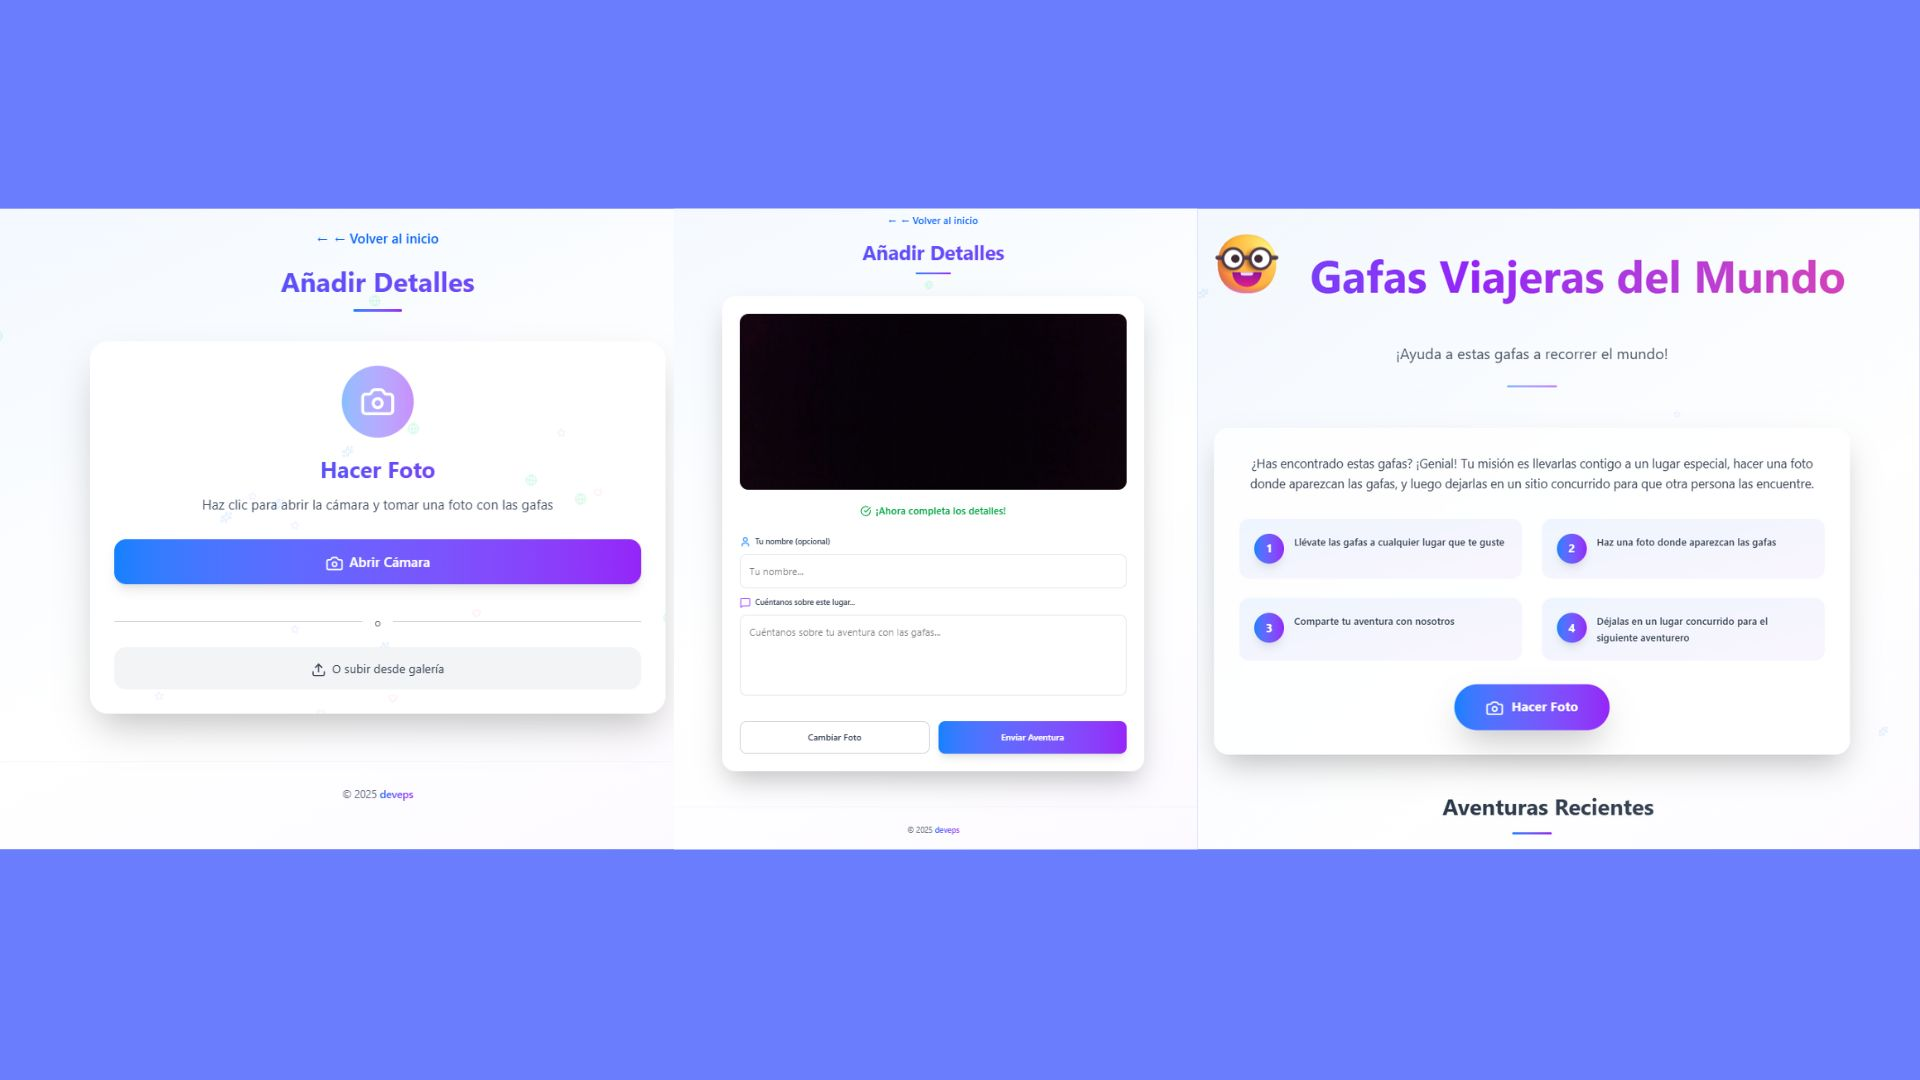
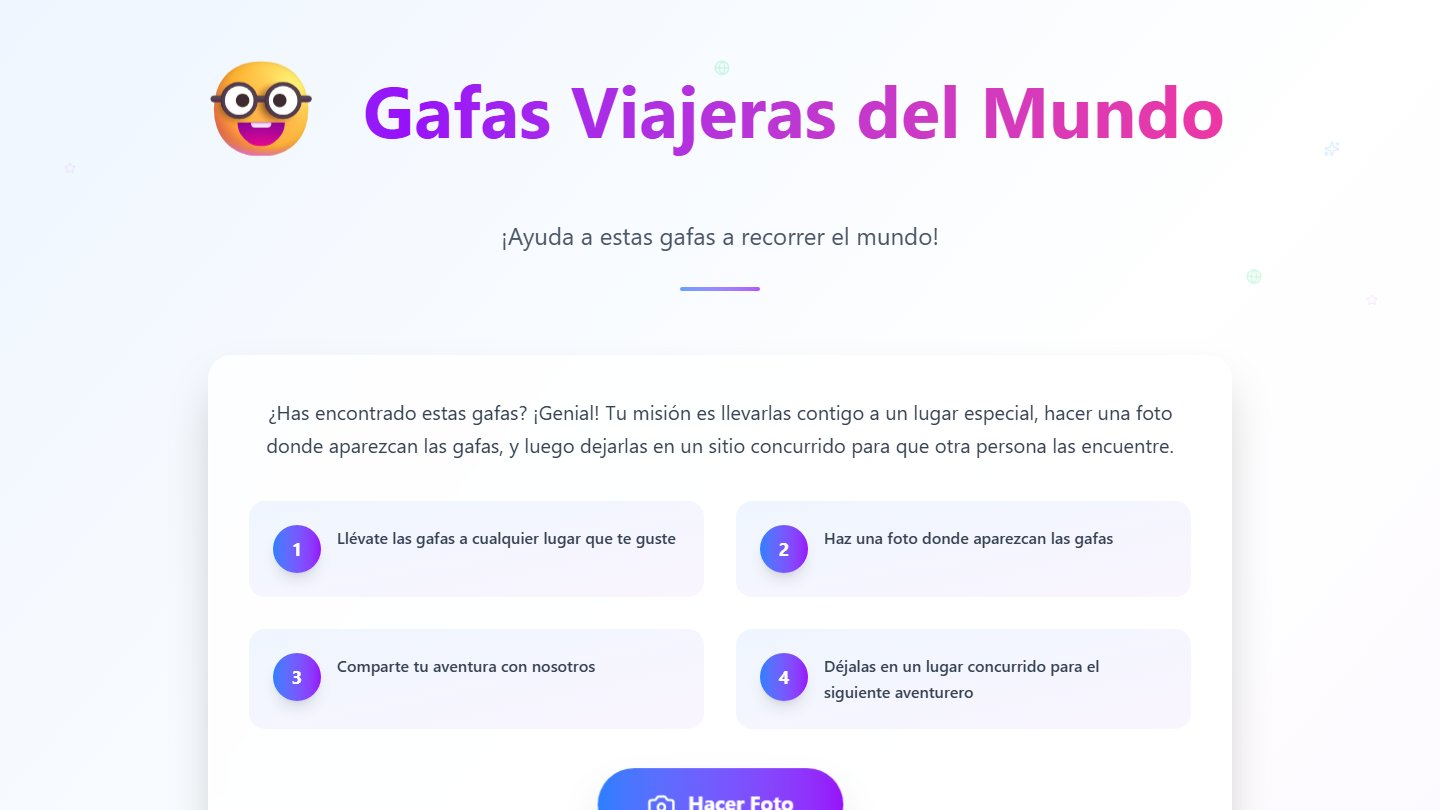
Actualizar las capturas del portfolio
Capturas nuevas de las 8 demos (1440x810, JPG): pasan de 3,0 MB a 608 KB.

diff --git a/data.tsx b/data.tsx
@@ -182,14 +182,14 @@ export const dataPortfolio = [
   {
     id: 1,
     title: "PedidAI - Spring Boot - Angular - JWT - IA - Docker - n8n - nginx",
-    image: "/image-1.png",
+    image: "/image-1.jpg",
     urlGithub: "https://github.com/devepsdev/pedidai",
     urlDemo: "https://pedidai.es",
   },
   {
     id: 2,
     title: "Facialy - Django - React - Docker - GitHub Actions",
-    image: "/image-2.png",
+    image: "/image-2.jpg",
     urlGithub: "https://github.com/devepsdev/facialy",
     urlDemo: "https://deveps.ddns.net/facialy/",
   },
@@ -210,21 +210,21 @@ export const dataPortfolio = [
   {
     id: 5,
     title: "Moviesfy - Angular - Node.js - Express - MongoDB",
-    image: "/image-5.png",
+    image: "/image-5.jpg",
     urlGithub: "https://github.com/devepsdev/moviesfy",
     urlDemo: "https://deveps.ddns.net/movies/",
   },
   {
     id: 6,
     title: "Reserva - Next.js - Tailwind CSS - Prisma - PostgreSQL - JWT",
-    image: "/image-6.png",
+    image: "/image-6.jpg",
     urlGithub: "https://github.com/devepsdev/reserva",
     urlDemo: "https://reserva-deveps.vercel.app/",
   },
   {
     id: 7,
     title: "Notesfy - Spring Boot - Angular - Bootstrap - MySQL - JWT",
-    image: "/image-7.png",
+    image: "/image-7.jpg",
     urlGithub: "https://github.com/devepsdev/notesfy",
     urlDemo: "https://deveps.ddns.net/notes",
   },
